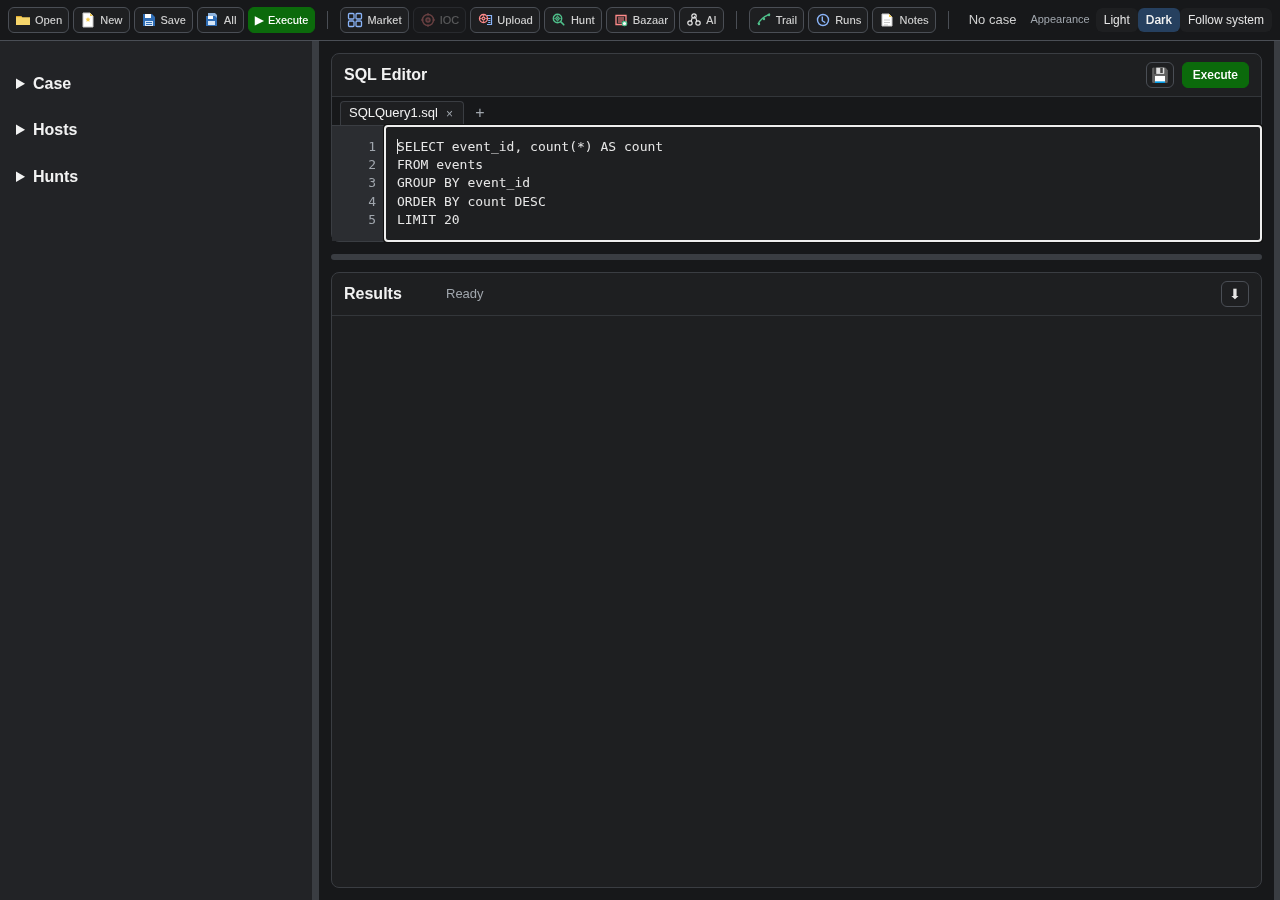
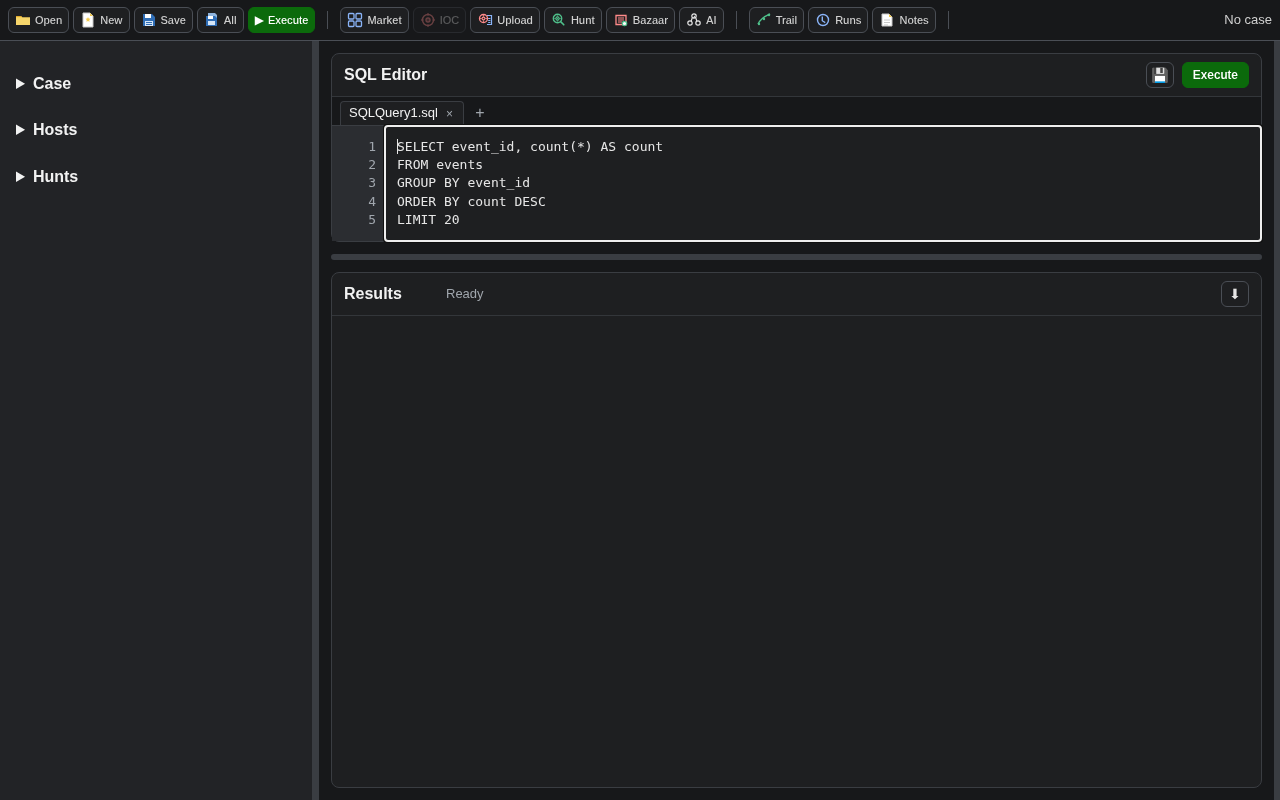
Move Appearance into a Preferences dialog opened from the app menu (Cmd/Ctrl+,)

Changed region(s): [[0.0, 0.0, 1.0, 0.375], [0.0, 0.0938, 0.0625, 0.25]]

diff --git a/ui/theme.test.js b/ui/theme.test.js
@@ -51,15 +51,55 @@ test("init sets data-theme on <html> from storage before mounting", () => {
   assert.strictEqual(html.dataset.themeChoice, "light");
 });
 
-test("app wiring: one Appearance control in the toolbar, none in the PE view", () => {
+test("app wiring: Appearance lives only in the Preferences dialog", () => {
   const fs = require("node:fs");
   const html = fs.readFileSync(__dirname + "/index.html", "utf8");
   const head = html.slice(0, html.indexOf("</head>"));
   assert.ok(head.includes('src="theme.js"'), "theme.js loads in <head> so the first paint is themed");
-  assert.ok(/id="toolbar"[\s\S]*id="app-theme"[\s\S]*<\/header>/.test(html));
+  const toolbar = html.slice(html.indexOf('id="toolbar"'), html.indexOf("</header>"));
+  assert.ok(!toolbar.includes("app-theme") && !toolbar.includes("tb-appearance"), "toolbar switch is gone");
+  assert.strictEqual(html.split('id="app-theme"').length, 2, "exactly one Appearance control");
+  assert.ok(/id="prefs-sheet" class="sheet" hidden>[\s\S]*id="app-theme"/.test(html));
   assert.ok(!html.includes('id="pe-theme"'));
   const r = fs.readFileSync(__dirname + "/renderer.js", "utf8");
   assert.ok(r.includes('PeTheme.mount(document.getElementById("app-theme")'));
+  assert.ok(r.includes("window.mcparser.onOpenPreferences(openPreferences)"));
+});
+
+test("menu: Preferences... with Cmd/Ctrl+, sends a fixed IPC channel", () => {
+  const fs = require("node:fs");
+  const m = fs.readFileSync(__dirname + "/main.js", "utf8");
+  assert.ok(m.includes('const PREFS_CHANNEL = "open-preferences"'));
+  assert.ok(/label: "Preferences\.\.\.", accelerator: "CmdOrCtrl\+,", click: \(\) => win && win\.webContents\.send\(PREFS_CHANNEL\)/.test(m));
+  assert.ok(m.includes("...(isMac ? [{ type: \"separator\" }, prefsItem] : [])"), "macOS app menu");
+  assert.ok(m.includes("...(isMac ? [] : [{ type: \"separator\" }, prefsItem])"), "File menu elsewhere");
+  const p = fs.readFileSync(__dirname + "/preload.js", "utf8");
+  assert.ok(p.includes('onOpenPreferences: (handler) => ipcRenderer.on("open-preferences", () => handler())'));
+});
+
+test("Preferences dialog: choosing a radio applies and persists the theme", () => {
+  // Minimal DOM fake, enough for PeTheme.mount.
+  const el = (tag) => { const e = { tag, children: [], dataset: {}, attrs: {}, listeners: {}, tabIndex: 0, textContent: "",
+    setAttribute(k, v) { this.attrs[k] = v; }, getAttribute(k) { return this.attrs[k]; }, appendChild(c) { this.children.push(c); return c; },
+    addEventListener(t, f) { (this.listeners[t] = this.listeners[t] || []).push(f); }, focus() { doc.active = this; } }; e.ownerDocument = doc; return e; };
+  const store = mem("system");
+  const doc = { documentElement: { dataset: {} }, createElement: el, defaultView: { localStorage: store, matchMedia: () => ({ matches: false, addEventListener() {} }) } };
+  const host = el("div");
+  const ctl = T.mount(host, { label: "Appearance" });
+  const group = host.children[0];
+  assert.strictEqual(group.attrs.role, "radiogroup");
+  const [light, dark, sys] = group.children;
+  assert.strictEqual(sys.attrs["aria-checked"], "true");
+  dark.listeners.click[0]();
+  assert.strictEqual(doc.documentElement.dataset.theme, "dark");
+  assert.strictEqual(store.m.get(T.KEY), "dark");
+  assert.strictEqual(dark.attrs["aria-checked"], "true");
+  assert.strictEqual(dark.tabIndex, 0);
+  dark.listeners.keydown[0]({ key: "ArrowLeft", preventDefault() {} });
+  assert.strictEqual(ctl.get(), "light");
+  assert.strictEqual(store.m.get(T.KEY), "light");
+  assert.strictEqual(doc.active, light);
+  assert.strictEqual(T.load(store), "light", "same storage key carries over");
 });
 
 test("studio.css: every app token has a dark value and no light-only literals remain on core surfaces", () => {

diff --git a/ui/renderer.js b/ui/renderer.js
@@ -1938,6 +1938,24 @@ window.mcparser.onAnalyzePe(async () => {
   catch (err) { view.textContent = "Could not read the analysis: " + err.message; }
   sheet.hidden = false;
 });
-// Appearance (Light, Dark, Follow system) applies to the whole app.
-window.PeTheme.mount(document.getElementById("app-theme"), { label: "Appearance" });
+// Appearance (Light, Dark, Follow system) applies to the whole app. It lives
+// in the Preferences dialog, opened from the app menu (Cmd+, or Ctrl+,).
+const appTheme = window.PeTheme.mount(document.getElementById("app-theme"), { label: "Appearance" });
+const prefsSheet = document.getElementById("prefs-sheet");
+let prefsReturnFocus = null;
+function openPreferences() {
+  prefsReturnFocus = document.activeElement;
+  prefsSheet.hidden = false;
+  const on = prefsSheet.querySelector('.pe-theme-opt[aria-checked="true"]');
+  if (on) on.focus();
+  return appTheme;
+}
+function closePreferences() {
+  prefsSheet.hidden = true;
+  if (prefsReturnFocus && prefsReturnFocus.focus) prefsReturnFocus.focus();
+}
+document.getElementById("prefs-form").addEventListener("submit", (e) => { e.preventDefault(); closePreferences(); });
+prefsSheet.addEventListener("keydown", (e) => { if (e.key === "Escape") { e.preventDefault(); closePreferences(); } });
+prefsSheet.addEventListener("click", (e) => { if (e.target === prefsSheet) closePreferences(); });
+window.mcparser.onOpenPreferences(openPreferences);
 document.getElementById("pe-close").addEventListener("click", () => { document.getElementById("pe-sheet").hidden = true; });

diff --git a/ui/studio.css b/ui/studio.css
@@ -205,12 +205,12 @@ a { color: var(--app-link); }
 :root[data-theme="dark"] #toolbar svg [stroke="#555"] { stroke: #c8c8c8; }
 
 /* Appearance control (toolbar). Reuses the segmented look of the PE view. */
-.tb-appearance { display: inline-flex; align-items: center; gap: 6px; margin-left: 8px; font-size: 11px; color: var(--app-dim); }
-.tb-appearance .pe-theme { border-color: var(--app-control-border); }
-.tb-appearance .pe-theme-opt { background: var(--app-bg); color: var(--app-fg); height: 24px; }
-.tb-appearance .pe-theme-opt + .pe-theme-opt { border-left-color: var(--app-control-border); }
-.tb-appearance .pe-theme-opt[aria-checked="true"] { background: var(--app-select); color: var(--app-strong); }
-#toolbar .tb-appearance button { width: auto; height: 24px; padding: 0 8px; }
+.prefs h2 { margin: 12px 0 4px; font-size: 13px; color: var(--app-strong); }
+.prefs .pe-theme { border-color: var(--app-control-border); }
+.prefs .pe-theme-opt { background: var(--app-bg); color: var(--app-fg); height: 28px; padding: 0 12px; }
+.prefs .pe-theme-opt + .pe-theme-opt { border-left-color: var(--app-control-border); }
+.prefs .pe-theme-opt[aria-checked="true"] { background: var(--app-select); color: var(--app-strong); }
+.prefs .pe-theme-opt:focus-visible { outline: 2px solid var(--app-link); outline-offset: 1px; }
 
 /* PE view. Own tokens with the same light and dark values as the app
    palette; the dark set applies when theme.js sets data-theme="dark" on

diff --git a/ui/index.html b/ui/index.html
@@ -64,7 +64,6 @@
     </div>
     <span class="tb-sep"></span>
     <span id="tb-case">No case</span>
-    <span class="tb-appearance" title="Appearance: Light, Dark or Follow system"><span id="tb-appearance-label">Appearance</span><span id="app-theme"></span></span>
   </header>
   <div id="workspace">
   <aside id="case-pane">
@@ -211,6 +210,19 @@ LIMIT 20</textarea>
       <div class="sheet-actions">
         <button type="button" id="key-cancel">Cancel</button>
         <button type="submit" id="key-save">Save</button>
+      </div>
+    </form>
+  </div>
+  <div id="prefs-sheet" class="sheet" hidden>
+    <form id="prefs-form" class="prefs" aria-labelledby="prefs-title">
+      <h1 id="prefs-title">Preferences</h1>
+      <section class="prefs-section">
+        <h2 id="prefs-appearance-label">Appearance</h2>
+        <p>Applies to every screen. Follow system tracks the OS setting.</p>
+        <div id="app-theme"></div>
+      </section>
+      <div class="sheet-actions">
+        <button type="submit" id="prefs-done">Done</button>
       </div>
     </form>
   </div>

diff --git a/ui/main.js b/ui/main.js
@@ -427,13 +427,20 @@ async function showAbout() {
 
 let caseOpen = false;
 
+// Fixed IPC channel for the Preferences dialog. The renderer only listens on
+// this name; nothing is loaded from the network.
+const PREFS_CHANNEL = "open-preferences";
+
 function buildMenu() {
   const connected = activeKey().length > 0;
+  const isMac = process.platform === "darwin";
+  const prefsItem = { label: "Preferences...", accelerator: "CmdOrCtrl+,", click: () => win && win.webContents.send(PREFS_CHANNEL) };
   const template = [
     {
       label: "McParser",
       submenu: [
         { label: "About McParser", click: showAbout },
+        ...(isMac ? [{ type: "separator" }, prefsItem] : []),
         { type: "separator" },
         { role: "hide" },
         { role: "hideOthers" },
@@ -470,6 +477,7 @@ function buildMenu() {
             { label: "Open...", click: () => win.webContents.send("open-handoff") },
           ],
         },
+        ...(isMac ? [] : [{ type: "separator" }, prefsItem]),
         { type: "separator" },
         { role: "close" },
       ],

diff --git a/ui/preload.js b/ui/preload.js
@@ -8,6 +8,7 @@ contextBridge.exposeInMainWorld("mcparser", {
   prefetch: (caseDir) => ipcRenderer.invoke("prefetch", caseDir),
   peReadRange: (offset, length) => ipcRenderer.invoke("pe-read-range", offset, length),
   peAnalyze: (caseDir) => ipcRenderer.invoke("pe-analyze", caseDir),
+  onOpenPreferences: (handler) => ipcRenderer.on("open-preferences", () => handler()),
   onAnalyzePe: (handler) => ipcRenderer.on("analyze-pe", () => handler()),
   pickCollection: () => ipcRenderer.invoke("pick-collection"),
   pickCaseOpen: () => ipcRenderer.invoke("pick-case-open"),

diff --git a/docs/manual/03-open.md b/docs/manual/03-open.md
@@ -22,7 +22,12 @@ flowchart TD
 
 File, Analyze PE File... opens one Windows executable or DLL and shows what its headers say. McParser only parses the file. It never runs it and makes no network calls for it. The tabs cover General, PE Header, MZ Header, Sections / Overlay, Imports / Exports / TLS, Resources, Debug, Version Info / Signature, and Hex / Strings. The hints on the General tab are hints, not verdicts.
 
-Appearance is an app-wide setting. The Appearance switch at the right of the main toolbar picks Light, Dark, or Follow system for every screen: the editor, results grid, left pane, dialogs, AI pane, audit lists, and this PE view. Follow system is the default and tracks the OS light or dark setting. The choice is remembered between sessions. Use the arrow keys to move between the three options.
+Appearance is an app-wide setting, set in Preferences. Light, Dark, or Follow system applies to every screen: the editor, results grid, left pane, dialogs, AI pane, audit lists, and this PE view. Follow system is the default and tracks the OS light or dark setting. The choice applies immediately and is remembered between sessions.
+
+**Preferences.** Open it with McParser > Preferences... (Cmd+,) on macOS, or File > Preferences... (Ctrl+,) on Windows and Linux. The Appearance section has the three options as a radio group: use Tab to reach it, the arrow keys to move between options, and Escape or Done to close the dialog.
+
+![Preferences, light](../screenshots/preferences-light.png)
+![Preferences, dark](../screenshots/preferences-dark.png)
 
 ![Main window, light](../screenshots/app-light.png)
 ![Main window, dark](../screenshots/app-dark.png)
